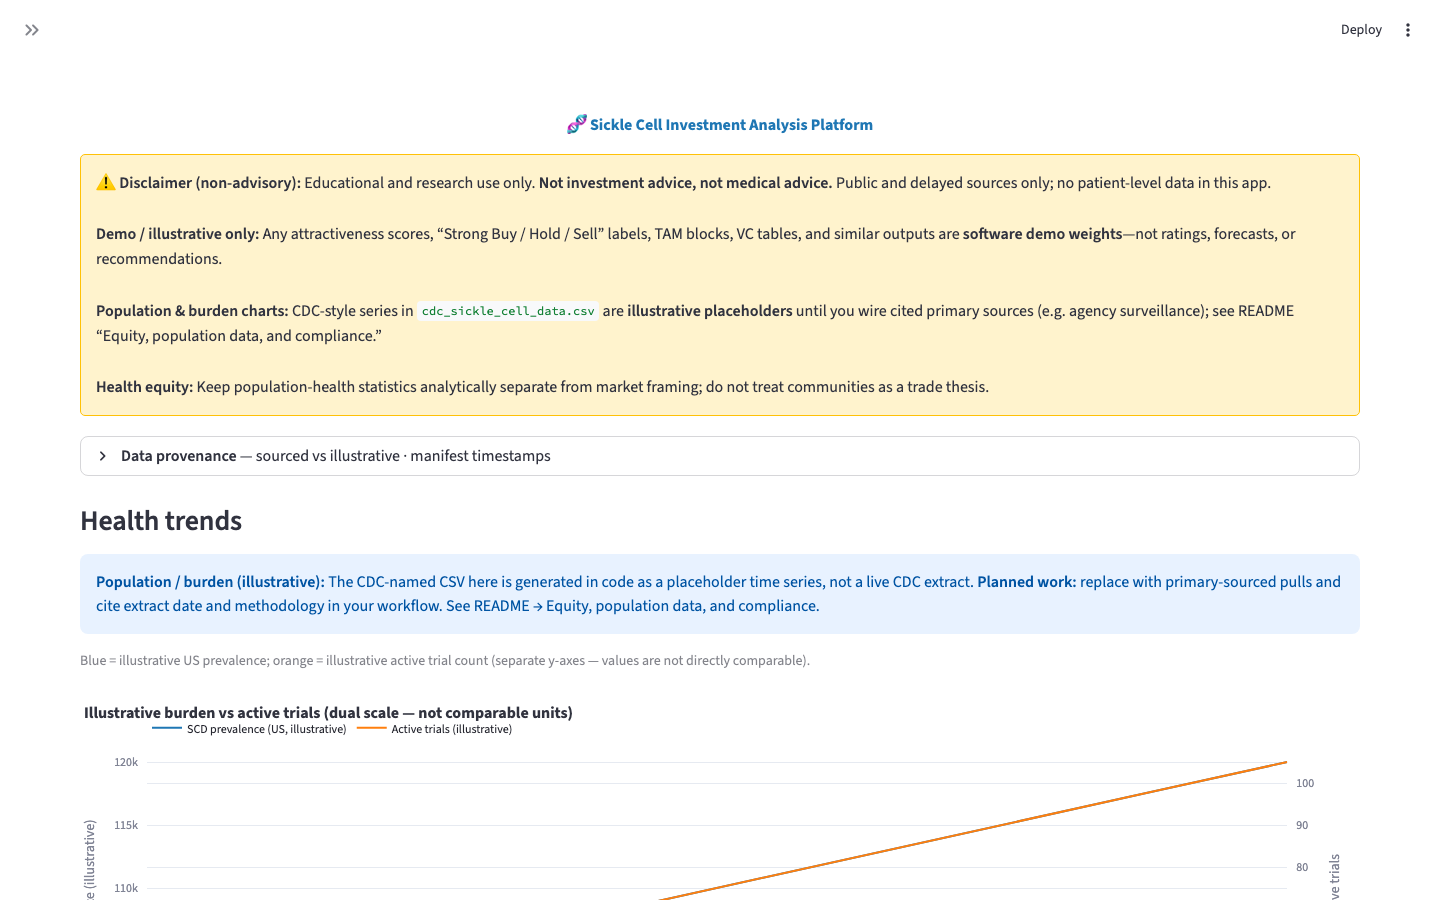
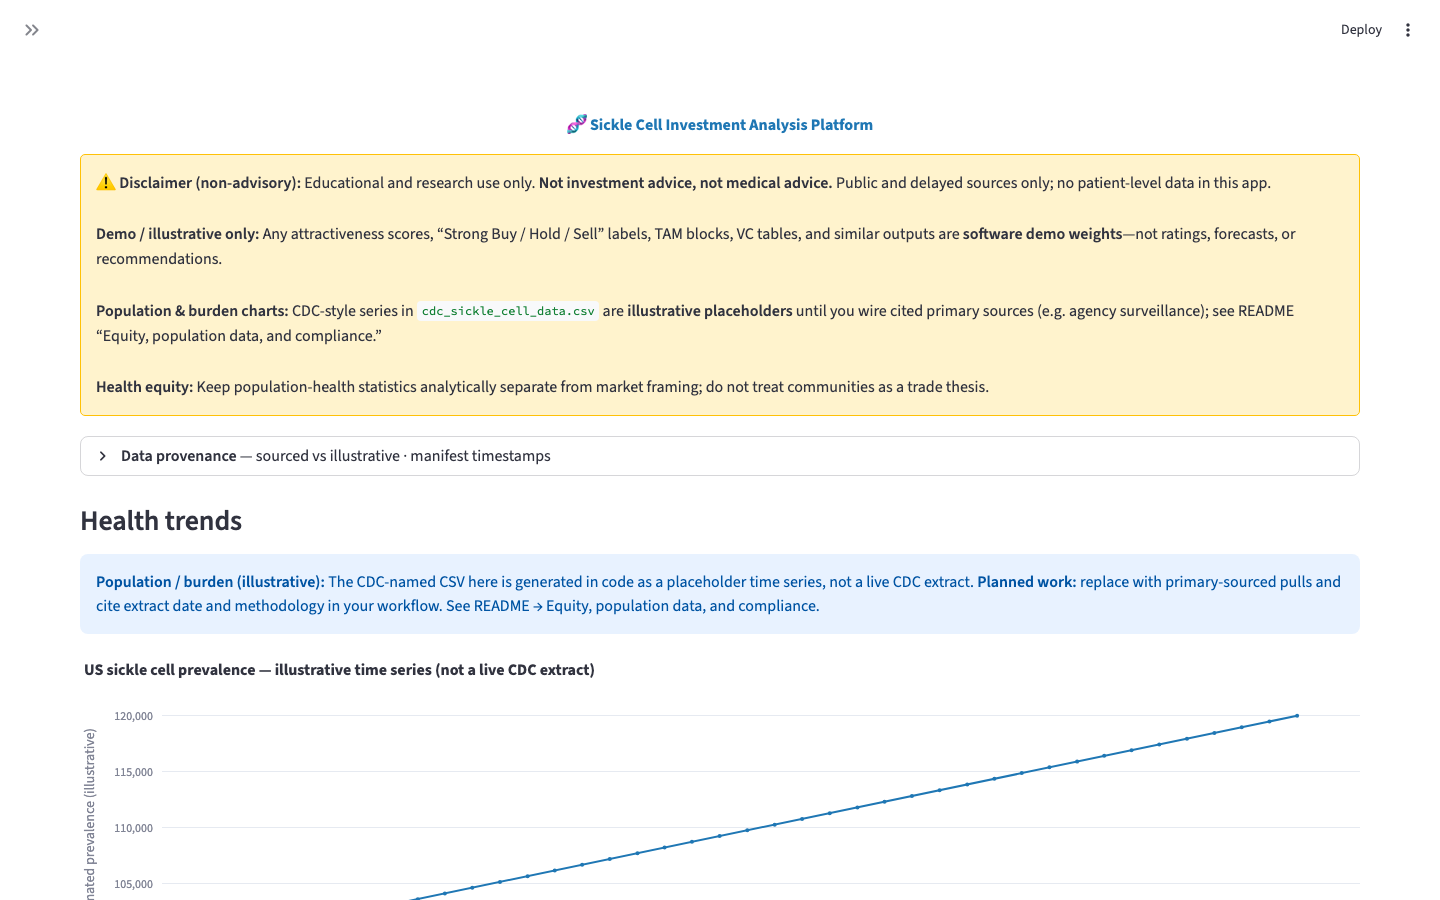
Fix Health Trends: split prevalence and trials into separate charts; trials by start year from API sample.

diff --git a/dashboard/app.py b/dashboard/app.py
@@ -11,7 +11,6 @@ from typing import Any, Optional
 import pandas as pd
 import plotly.express as px
 import plotly.graph_objects as go
-from plotly.subplots import make_subplots
 import streamlit as st
 
 ROOT = Path(__file__).resolve().parent.parent
@@ -61,47 +60,101 @@ def load_manifest() -> Optional[dict[str, Any]]:
     return json.loads(path.read_text(encoding="utf-8"))
 
 
-def render_health_trends_chart(cdc: pd.DataFrame) -> None:
-    """Prevalence (~100k) and trial counts (~50–100) need separate y-axes or one series is invisible."""
-    chart_df = cdc.copy()
-    chart_df["date"] = pd.to_datetime(chart_df["date"])
-    needed = ["scd_prevalence_us", "clinical_trials_active"]
-    missing_cols = [c for c in needed if c not in chart_df.columns]
-    if missing_cols:
-        st.error(f"CDC CSV is missing columns: {missing_cols}. Re-run `collect_all_data.py`.")
+def _trials_by_start_year(trials: pd.DataFrame) -> pd.DataFrame:
+    """Count trials in this CSV sample by calendar year of start_date."""
+    df = trials.copy()
+    if "start_date" not in df.columns:
+        return pd.DataFrame(columns=["year", "trial_count"])
+    df["start_date"] = pd.to_datetime(df["start_date"], errors="coerce")
+    df = df.dropna(subset=["start_date"])
+    if df.empty:
+        return pd.DataFrame(columns=["year", "trial_count"])
+    counts = df.groupby(df["start_date"].dt.year).size().reset_index(name="trial_count")
+    counts.columns = ["year", "trial_count"]
+    return counts.sort_values("year")
+
+
+def render_health_trends_charts(cdc: pd.DataFrame, trials: Optional[pd.DataFrame]) -> None:
+    """Separate charts: prevalence placeholder (CDC CSV) vs trial counts from ClinicalTrials sample."""
+    cdc_df = cdc.copy()
+    cdc_df["date"] = pd.to_datetime(cdc_df["date"])
+
+    if "scd_prevalence_us" not in cdc_df.columns:
+        st.error("CDC CSV is missing `scd_prevalence_us`. Re-run `collect_all_data.py`.")
         return
 
-    fig = make_subplots(specs=[[{"secondary_y": True}]])
-    fig.add_trace(
+    # --- Chart 1: prevalence only (do not mix with trial counts on one axis) ---
+    fig_prev = go.Figure()
+    fig_prev.add_trace(
         go.Scatter(
-            x=chart_df["date"],
-            y=chart_df["scd_prevalence_us"],
+            x=cdc_df["date"],
+            y=cdc_df["scd_prevalence_us"],
             name="SCD prevalence (US, illustrative)",
-            mode="lines",
-            line=dict(color="#1f77b4"),
-        ),
-        secondary_y=False,
+            mode="lines+markers",
+            line=dict(color="#1f77b4", width=2),
+            marker=dict(size=4),
+        )
     )
-    fig.add_trace(
-        go.Scatter(
-            x=chart_df["date"],
-            y=chart_df["clinical_trials_active"],
-            name="Active trials (illustrative)",
-            mode="lines",
-            line=dict(color="#ff7f0e"),
-        ),
-        secondary_y=True,
+    fig_prev.update_layout(
+        title="US sickle cell prevalence — illustrative time series (not a live CDC extract)",
+        xaxis_title="Date",
+        yaxis_title="Estimated prevalence (illustrative)",
+        height=360,
+        margin=dict(t=50, b=40),
+        yaxis=dict(tickformat=",.0f"),
     )
-    fig.update_layout(
-        title="Illustrative burden vs active trials (dual scale — not comparable units)",
-        legend=dict(orientation="h", yanchor="bottom", y=1.02),
-        height=420,
-        margin=dict(t=60),
-    )
-    fig.update_xaxes(title_text="Date")
-    fig.update_yaxes(title_text="Prevalence (illustrative)", secondary_y=False)
-    fig.update_yaxes(title_text="Active trials", secondary_y=True)
-    st.plotly_chart(fig, use_container_width=True)
+    st.plotly_chart(fig_prev, use_container_width=True)
+
+    # --- Chart 2: trials from ClinicalTrials.gov sample when available ---
+    by_year = _trials_by_start_year(trials) if trials is not None and not trials.empty else pd.DataFrame()
+
+    if not by_year.empty:
+        fig_trials = go.Figure()
+        fig_trials.add_trace(
+            go.Bar(
+                x=by_year["year"],
+                y=by_year["trial_count"],
+                name="Trials in sample",
+                marker_color="#ff7f0e",
+            )
+        )
+        fig_trials.update_layout(
+            title="Clinical trials in this repo sample by trial start year (ClinicalTrials.gov)",
+            xaxis_title="Start year",
+            yaxis_title="Number of trials in CSV sample",
+            height=360,
+            margin=dict(t=50, b=40),
+            xaxis=dict(dtick=1),
+        )
+        st.plotly_chart(fig_trials, use_container_width=True)
+        st.caption(
+            f"Counts {len(trials)} studies returned by the collector query—not total global trial volume."
+        )
+    elif "clinical_trials_active" in cdc_df.columns:
+        st.caption(
+            "No dated trials in `clinical_trials_scd.csv` for a bar chart; showing illustrative "
+            "`clinical_trials_active` from the CDC-named placeholder CSV instead."
+        )
+        fig_placeholder = go.Figure()
+        fig_placeholder.add_trace(
+            go.Scatter(
+                x=cdc_df["date"],
+                y=cdc_df["clinical_trials_active"],
+                name="Active trials (illustrative placeholder)",
+                mode="lines+markers",
+                line=dict(color="#ff7f0e", width=2),
+            )
+        )
+        fig_placeholder.update_layout(
+            title="Active trials — illustrative placeholder series in CDC CSV (not ClinicalTrials.gov)",
+            xaxis_title="Date",
+            yaxis_title="Count (illustrative)",
+            height=360,
+            margin=dict(t=50, b=40),
+        )
+        st.plotly_chart(fig_placeholder, use_container_width=True)
+    else:
+        st.info("Run `collect_all_data.py` to load ClinicalTrials.gov rows for the trials chart.")
 
 
 def render_page_provenance(page: str, manifest: Optional[dict[str, Any]]) -> None:
@@ -252,11 +305,7 @@ elif page == "Health Trends":
             "`python3 src/data_collection/collect_all_data.py`"
         )
     elif cdc is not None:
-        st.caption(
-            "Blue = illustrative US prevalence; orange = illustrative active trial count "
-            "(separate y-axes — values are not directly comparable)."
-        )
-        render_health_trends_chart(cdc)
+        render_health_trends_charts(cdc, trials)
     else:
         st.info("Run data collection to load `cdc_sickle_cell_data.csv` for the trend chart.")
 

diff --git a/README.md b/README.md
@@ -53,7 +53,7 @@ Skip the three `python3` lines if you only need the UI shell (charts stay empty 
 
 ![Overview](docs/screenshots/overview.png)
 
-**Health Trends** — CDC-style prevalence line chart · ClinicalTrials.gov trial table:
+**Health Trends** — prevalence line chart (illustrative) · trials-by-start-year bar chart (ClinicalTrials sample) · trial table:
 
 ![Health Trends](docs/screenshots/health-trends.png)
 
